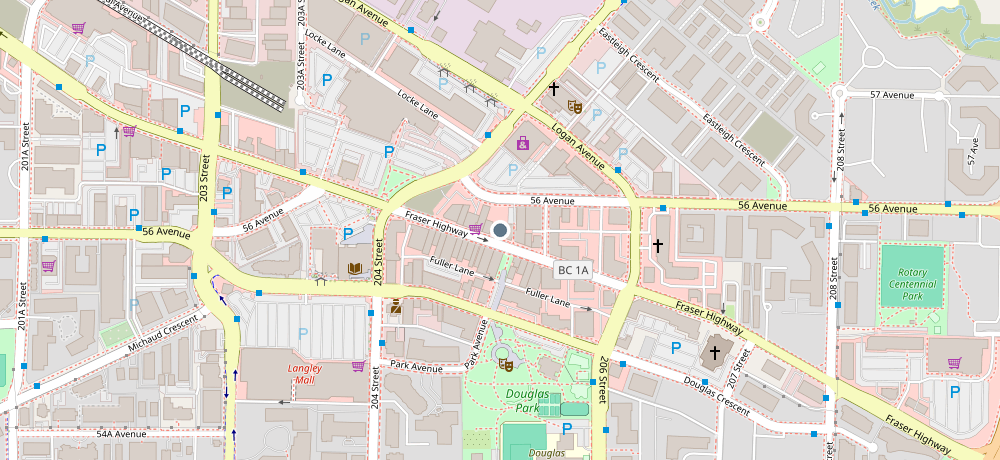
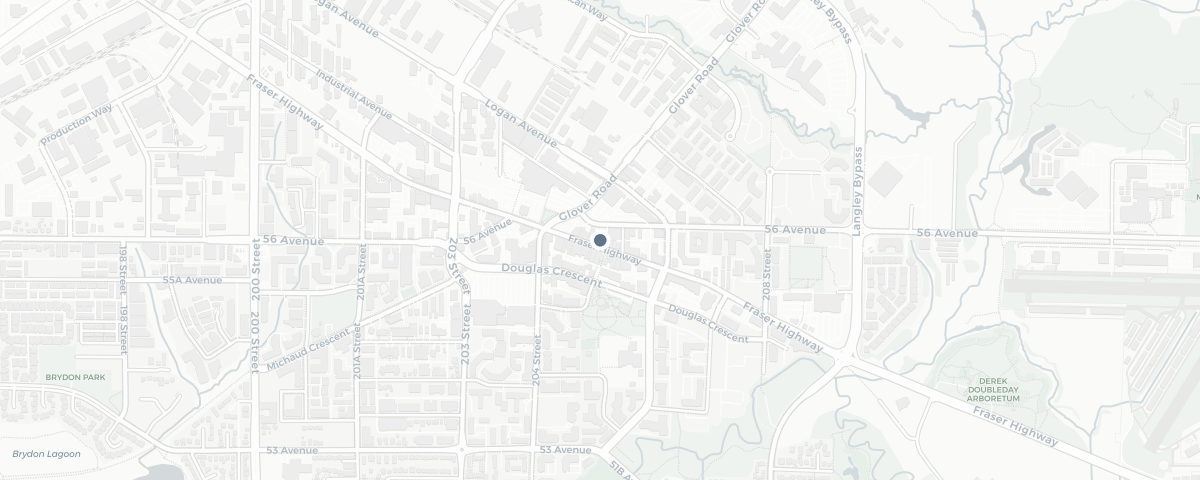
Map: minimal CARTO Positron style (zoomed out) + 'Google Maps' click affordance

diff --git a/index.html b/index.html
@@ -119,11 +119,22 @@
     .flourish .l { width: 70px; height: 1px; background: var(--line); }
 
     /* ---- location ---- */
-    .map-link { display: block; }
+    .map-link { position: relative; display: block; }
     .map-link img {
       width: 100%; height: auto; display: block;
       border: 1px solid var(--line); border-radius: 14px;
     }
+    .map-cta {
+      position: absolute; right: 12px; bottom: 12px;
+      background: rgba(255,255,255,.9); backdrop-filter: blur(4px);
+      border: 1px solid var(--line); border-radius: 999px;
+      padding: 7px 15px; font-size: 13px; letter-spacing: 0.03em;
+      color: var(--accent-deep); font-family: var(--font-en-body);
+      box-shadow: 0 3px 10px rgba(60,55,45,.12);
+      transition: background .2s, color .2s;
+    }
+    body.lang-ko .map-cta { font-family: var(--font-ko-body); }
+    .map-link:hover .map-cta { background: var(--accent); color: #fff; }
     .map-attr { font-size: 11px; color: var(--muted); margin: 6px 0 20px; text-align: right; }
     .address { color: var(--ink-soft); }
     .btn {
@@ -252,10 +263,11 @@
     <div class="eyebrow"><span class="en">Find Us</span><span class="ko">오시는 길</span></div>
     <h2><span class="en">Location</span><span class="ko">위치</span></h2>
     <div class="rule"></div>
-    <a class="map-link" href="https://maps.app.goo.gl/JVagLDM6HDKbiV5N7" target="_blank" rel="noopener">
+    <a class="map-link" href="https://maps.app.goo.gl/JVagLDM6HDKbiV5N7" target="_blank" rel="noopener" aria-label="Open location in Google Maps">
       <img src="assets/map.png" alt="Map — 20505 Fraser Hwy, Unit 208, Langley, BC" loading="lazy" />
+      <span class="map-cta"><span class="en">Google Maps ↗</span><span class="ko">구글지도에서 보기 ↗</span></span>
     </a>
-    <p class="map-attr">© OpenStreetMap contributors</p>
+    <p class="map-attr">© OpenStreetMap contributors, © CARTO</p>
     <p class="address en">20505 Fraser Hwy, Unit 208, Langley, BC</p>
     <p class="address ko">20505 Fraser Hwy, Unit 208, Langley, BC (브리티시컬럼비아주 랭리)</p>
     <a class="btn" href="https://maps.app.goo.gl/JVagLDM6HDKbiV5N7" target="_blank" rel="noopener"><span class="en">Get directions →</span><span class="ko">길찾기 →</span></a>
